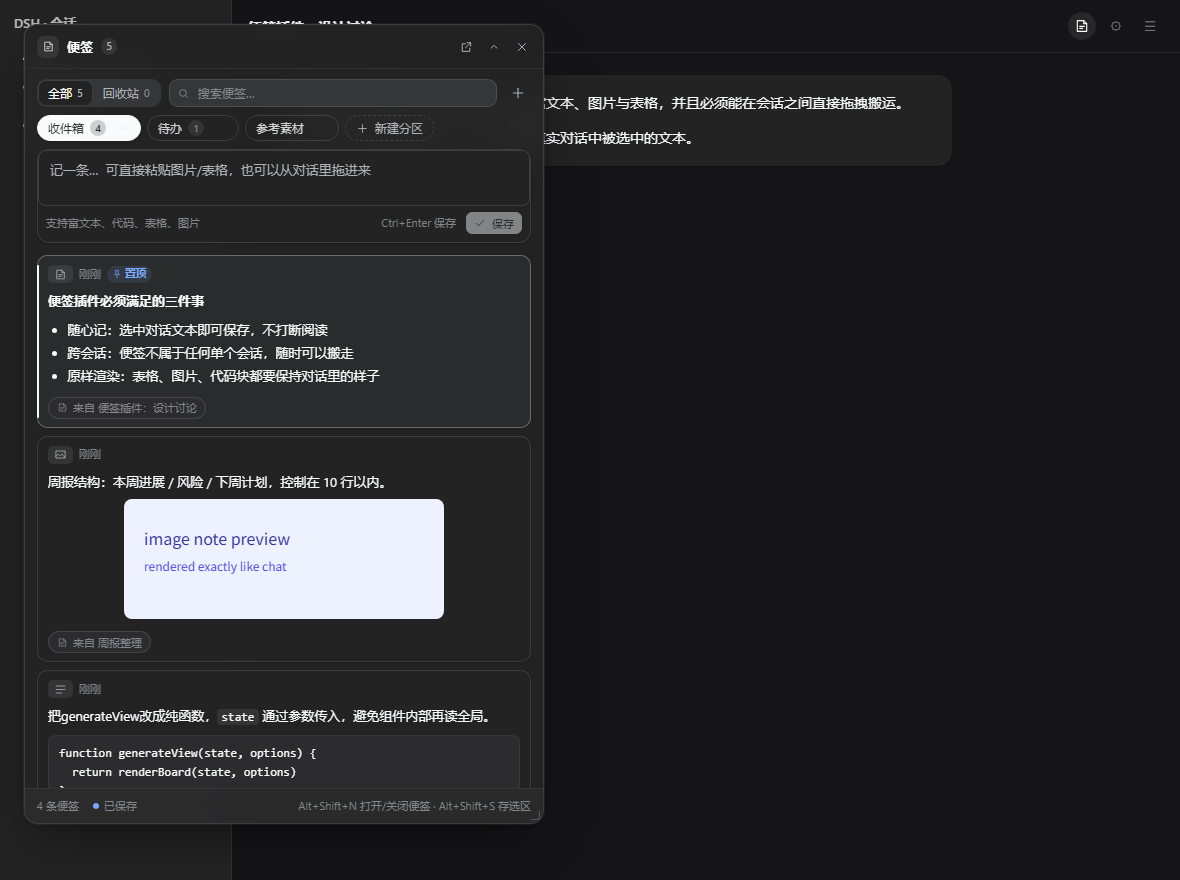
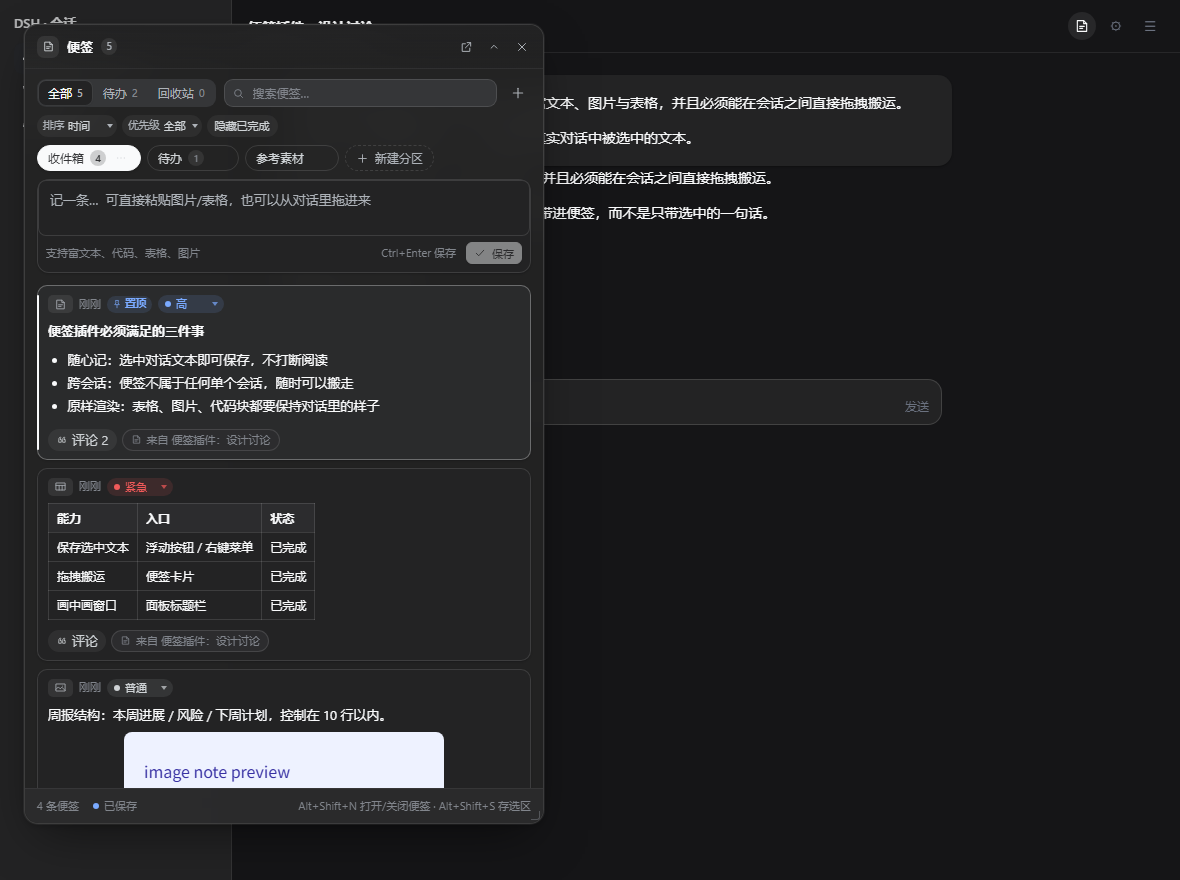
docs: 1.1.0 changelog, refreshed screenshots and owner rename
- CHANGELOG.md records 1.0.0 and the 1.1.0 feature set
- README (zh + en) documents priorities, the to-do board and comments,
  new test counts and the ?scene=tasks / ?scene=sheet debug scenes
- assets/ carries refreshed board shots plus note-detail.png and
  tasks-view.png; screenshots.json lists the eight storefront images
- package.json: 1.1.0, CHANGELOG.md added to the published files
- repository metadata now points at kuangdang123 (was the placeholder
  owner), including the awesome-dsh-plugin entry filename

Changed region(s): [[0.0305, 0.092, 0.6407, 0.9205], [0.7627, 0.4602, 0.7932, 0.4909]]

diff --git a/README.md b/README.md
@@ -2,9 +2,13 @@
 
 [English](./README.en.md)
 
-DSH Web UI 的便签插件：**随手记**下对话里的内容，**跨会话搬运**，分区管理，表格 / 图片 / 代码原样保留，还能放进**置顶画中画窗口**里跨应用使用。
+DSH Web UI 的便签插件：**随手记**下对话里的内容，**跨会话搬运**，分区管理，表格 / 图片 / 代码原样保留，带**优先级**、**待办清单**与**便签评论**，还能放进**置顶画中画窗口**里跨应用使用。
 
 ![分类便签](assets/board-light.png)
+
+| 便签详情与评论 | 待办总览 |
+| --- | --- |
+| ![便签详情](assets/note-detail.png) | ![待办总览](assets/tasks-view.png) |
 
 | 选中对话文本 | 拖进输入框 | 拖出独立窗口 |
 | --- | --- | --- |
@@ -21,6 +25,9 @@ DSH Web UI 的便签插件：**随手记**下对话里的内容，**跨会话搬
 - **图片右键存便签**：在对话里渲染出来的图片上右键，菜单里除了「复制图片 / 下载 / 在文件夹中显示」，还多一项「存入便签」——图片按 data URL 存进便签，刷新页面后依然在。
 - **面板随手记**：会话标题栏右上角的便签图标（**在这一排按钮的最左边**，其它插件的按钮在它右边）打开悬浮面板，直接写、直接存；也支持 `Alt+Shift+N`。
 - **分区**：收件箱 + 自定义分区，便签可在分区之间拖动归档，也可拖动排序、拖进回收站。
+- **优先级**：每张便签卡片头部有一个优先级胶囊（紧急 / 高 / 普通 / 低，默认「普通」），点一下即可改；卡片顶部按颜色区分（红 / 蓝 / 灰 / 浅灰），工具栏可按优先级筛选，排序也可从「时间」切成「优先级」，默认仍是时间排序。
+- **待办清单**：每张便签都能加勾选项（回车连续添加、点勾完成、右上角一键清空已完成）。面板顶部的「待办」标签页把所有便签里的待办聚合在一起，按优先级分组、按所属便签聚合，还能搜索与「隐藏已完成」。
+- **便签评论**：卡片底部点「评论」打开详情浮层，可以像飞书 / 企业微信那样在便签下面留言（Enter 发送、Shift+Enter 换行），评论以气泡线程展示、可删除；卡片上会显示评论数。详情浮层同时给出正文、待办清单、优先级和评论，窗口宽度小时也不会挤。
 - **回收站**：删除是软删除，可恢复、可彻底删除、可清空。
 - **发回对话**：任意便签「插入到输入框」，内容进入当前会话的 composer（纯文本；富内容可先「复制」）；无可用会话时自动退化为复制到剪贴板。
 - **拖回对话**：把便签卡片直接拖到输入框上，松手即插入（和拖放图片 / 文件的动手感一致）：输入框会亮起蓝色落点框并提示「松开鼠标，把便签插入输入框」，内容按 Markdown 还原表格、代码块、列表、引用，图片变成 `![说明](地址)`。
@@ -68,14 +75,14 @@ plugin_manager action=install_bundle target=<本仓库的绝对路径>
 
 ```powershell
 node build.mjs            # 拼接 src/*.js -> client.js
-node tests/smoke.mjs      # jsdom 集成冒烟测试（83 项）
+node tests/smoke.mjs      # jsdom 集成冒烟测试（105 项）
 node tests/host.mjs       # Host 半：数据路由 / 文件落盘 / 损坏恢复 / 目录迁移认领（39 项）
 node tests/sync.mjs       # 浏览器 ⇄ 文件 端到端同步（18 项）
-node tests/browser.mjs    # 真实 Chrome 端到端自测（27 项）
+node tests/browser.mjs    # 真实 Chrome 端到端自测（31 项）
 node tests/browser.mjs --dark
 ```
 
-`tests/visual/index.html` 是可视化调试台（`?theme=dark`、`?scene=trash|search|empty`、`?chip=1`、`?surface=1`、`?drop=1`、`?float=1`、`?panel=520x800`、`?panel=0` 隐藏面板只留对话、`?debugcss=1`、`?selftest=1`、`?diag=1`、`?host=1` 用假 fetch 模拟已落盘）。`tests/visual/vendor/` 里是离线运行所需的 React 18 UMD 构建与 DSH 的 `design-platform.css` 副本，只为调试台服务，不参与插件构建。
+`tests/visual/index.html` 是可视化调试台（`?theme=dark`、`?scene=trash|search|empty|tasks|sheet`、`?chip=1`、`?surface=1`、`?drop=1`、`?float=1`、`?panel=520x800`、`?panel=0` 隐藏面板只留对话、`?debugcss=1`、`?selftest=1`、`?diag=1`、`?host=1` 用假 fetch 模拟已落盘）。`tests/visual/vendor/` 里是离线运行所需的 React 18 UMD 构建与 DSH 的 `design-platform.css` 副本，只为调试台服务，不参与插件构建。
 
 想看**真实**的落盘状态，用 `node tests/visual/serve.mjs --port=8791` 起一个把 `index.html` 与真实数据路由一起挂上的小服务器，再打开 `http://127.0.0.1:8791/index.html?panel=520x800`：页面走真正的 HTTP，底部状态药丸会显示「已保存」，`notes.json` 落在该次启动的临时 profile 目录里。
 
@@ -132,4 +139,4 @@ node tests/visual/cdp-shot.mjs `
 
 ## 许可与反馈
 
-MIT。问题与建议请提到 [Issues](https://github.com/guangdang/dsh-sticky-board/issues)。
+MIT。问题与建议请提到 [Issues](https://github.com/kuangdang123/dsh-sticky-board/issues)。

diff --git a/README.en.md b/README.en.md
@@ -14,6 +14,9 @@ A sticky-note board for the DeepSeek Harness Web GUI: capture something from a c
 - **The board itself.** The notes icon at the top-right of the session header (leftmost in that row) opens a floating panel you can type into directly; `Alt+Shift+N` toggles it.
 - **Sections.** An inbox plus custom sections; drag notes between sections, drag to reorder, drag to the trash zone.
 - **Trash.** Deleting is soft: restore, delete permanently, or empty the trash.
+- **Priorities.** Every card carries a priority pill (urgent / high / normal / low, normal by default) you can change in place; cards are colour-coded, the toolbar can filter by priority, and sorting can switch from time to priority while time stays the default.
+- **To-do lists.** Any note can hold a checklist (Enter adds another item, ticking completes it, one click clears the finished ones). The **To-do** tab aggregates every open item across notes, grouped by note and sorted by priority, with search and a hide-finished switch.
+- **Comments on a note.** The comment chip at the foot of a card opens a detail sheet with the body, the checklist, the priority and a Feishu-style comment thread (Enter sends, Shift+Enter breaks the line); comments can be removed and the card shows their count.
 - **Send back to a conversation.** "Insert into composer" puts the note into the current session's composer (plain text); without an active session it falls back to the clipboard.
 - **Drag back into the composer.** Drag a note card onto the composer and release: a blue drop ring and a "release to insert" pill appear, and the note is inserted at the caret as Markdown (tables, code fences, lists and quotes are restored; images become `![alt](src)`).
 - **Drag out into a window.** Release a note card anywhere outside the composer — the transcript, empty space — and the note becomes its own floating window. Move it by the title bar, resize from the corner, collapse or close it; window geometry is stored in the note document (`ui.floaters`) and survives a reload. Dropping on the panel still means reorder / move / trash, and dropping on the composer still means insert.
@@ -55,10 +58,10 @@ On page load the client GETs `/dsh-sticky-board/data` and merges the file with t
 
 ```sh
 node build.mjs          # concatenate src/*.js -> client.js
-node tests/smoke.mjs    # jsdom integration smoke test (83 checks)
+node tests/smoke.mjs    # jsdom integration smoke test (105 checks)
 node tests/host.mjs     # Host half: route, file writes, corruption recovery, directory adoption (39 checks)
 node tests/sync.mjs     # browser <-> file end-to-end sync (18 checks)
-node tests/browser.mjs  # real Chrome end-to-end self-test (27 checks)
+node tests/browser.mjs  # real Chrome end-to-end self-test (31 checks)
 node tests/browser.mjs --dark
 ```
 

diff --git a/CHANGELOG.md b/CHANGELOG.md
@@ -1,0 +1,35 @@
+# Changelog
+
+## 1.1.0
+
+三个围绕「便签本身能承载多少信息」的新能力，外加更完整的持久化与交互打磨。
+
+### 新增
+
+- **优先级**：每张便签可标 **紧急 / 高 / 普通 / 低**（默认「普通」，四档等长选择）。卡片头部用彩色胶囊显示，工具栏可按优先级筛选，排序可在「时间」与「优先级」之间切换，默认仍是时间。筛选/排序状态记在便签文档的 `ui` 里，刷新后保持。
+- **待办清单**：任意便签可添加勾选项（回车连续添加、点击勾选、一键清空已完成）。新增 **待办** 标签页，把所有便签的未完成项聚合展示：按便签分组、组内按优先级排序、支持搜索与「隐藏已完成」，组标题可点开便签详情。
+- **便签评论**：卡片底部新增评论入口，打开详情浮层后可以像飞书 / 企业微信那样在便签下留言（Enter 发送、Shift+Enter 换行），评论以气泡线程渲染、可删除，卡片上显示评论数。
+- **便签详情浮层**：正文、优先级、待办清单、评论合在一个浮层里；浮层高度随内容收缩，长内容内部滚动，`Esc` 只关浮层不关面板。
+- 卡底信息栏：勾选进度 `1/3`（全部完成时高亮）、评论数、来源会话，统一成一排胶囊。
+
+### 变更
+
+- 卡片底部不再单独显示会话来源，改为与勾选、评论同排。
+- 便签排序新增「优先级」模式，不改变默认的时间排序行为。
+- 数据模型新增 `priority`、`tasks`、`comments` 与 `ui.sort / ui.priorityFilter / ui.hideDone / ui.detailNoteId`；旧文档读入时自动补默认值，**老便签不会丢**。
+- 同步合并升级：正文/优先级以时间戳较新的一方为准，**待办与评论按 id 求并集**，两台机器同时编辑不会互相覆盖。
+
+### 修复
+
+- 拖拽卡顿：拖到输入框上的落点框改为每帧绘制一次并缓存几何，同时限制拖拽载荷中的 `text/html` 体积（超过 64 KB 时先剥掉行内 base64 图片）。
+- 独立窗口的收起/关闭按钮失效：标题栏拖动不再对按钮区域做指针捕获。
+- 便签详情浮层的焦点环、评论作者重复显示等观感问题。
+
+### 开发
+
+- 冒烟测试 105 项、Host 测试 39 项、同步测试 18 项、真实浏览器自测 31 项（含优先级、清单、评论与待办聚合四个新用例）。
+- 可视化调试台新增 `?scene=tasks`、`?scene=sheet` 两个场景。
+
+## 1.0.0
+
+首个对外版本：从对话/回复/图片存便签，分区与回收站，拖回输入框（Markdown 还原），拖出独立窗口，画中画置顶窗，落盘保存（`notes.json` + `.bak` + 目录认领），better side bar 标签页。
